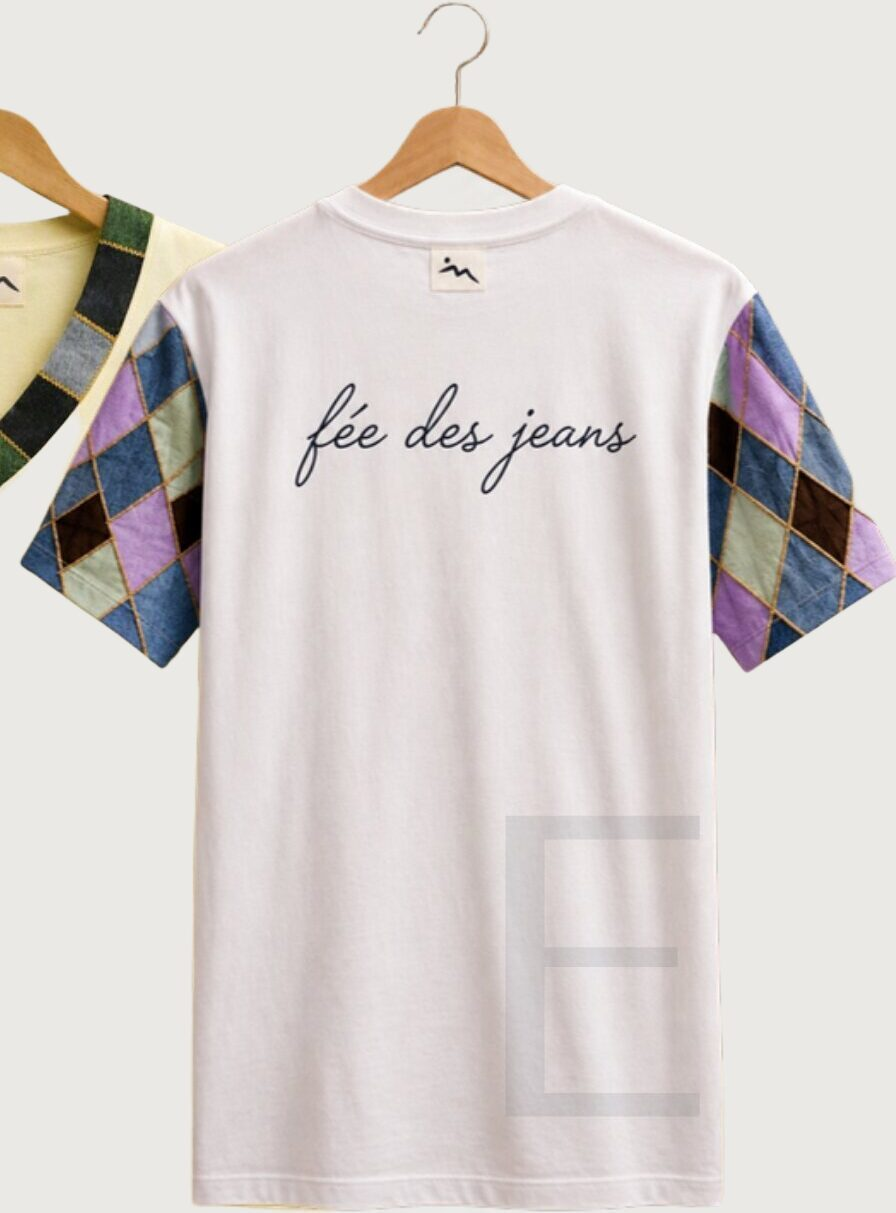
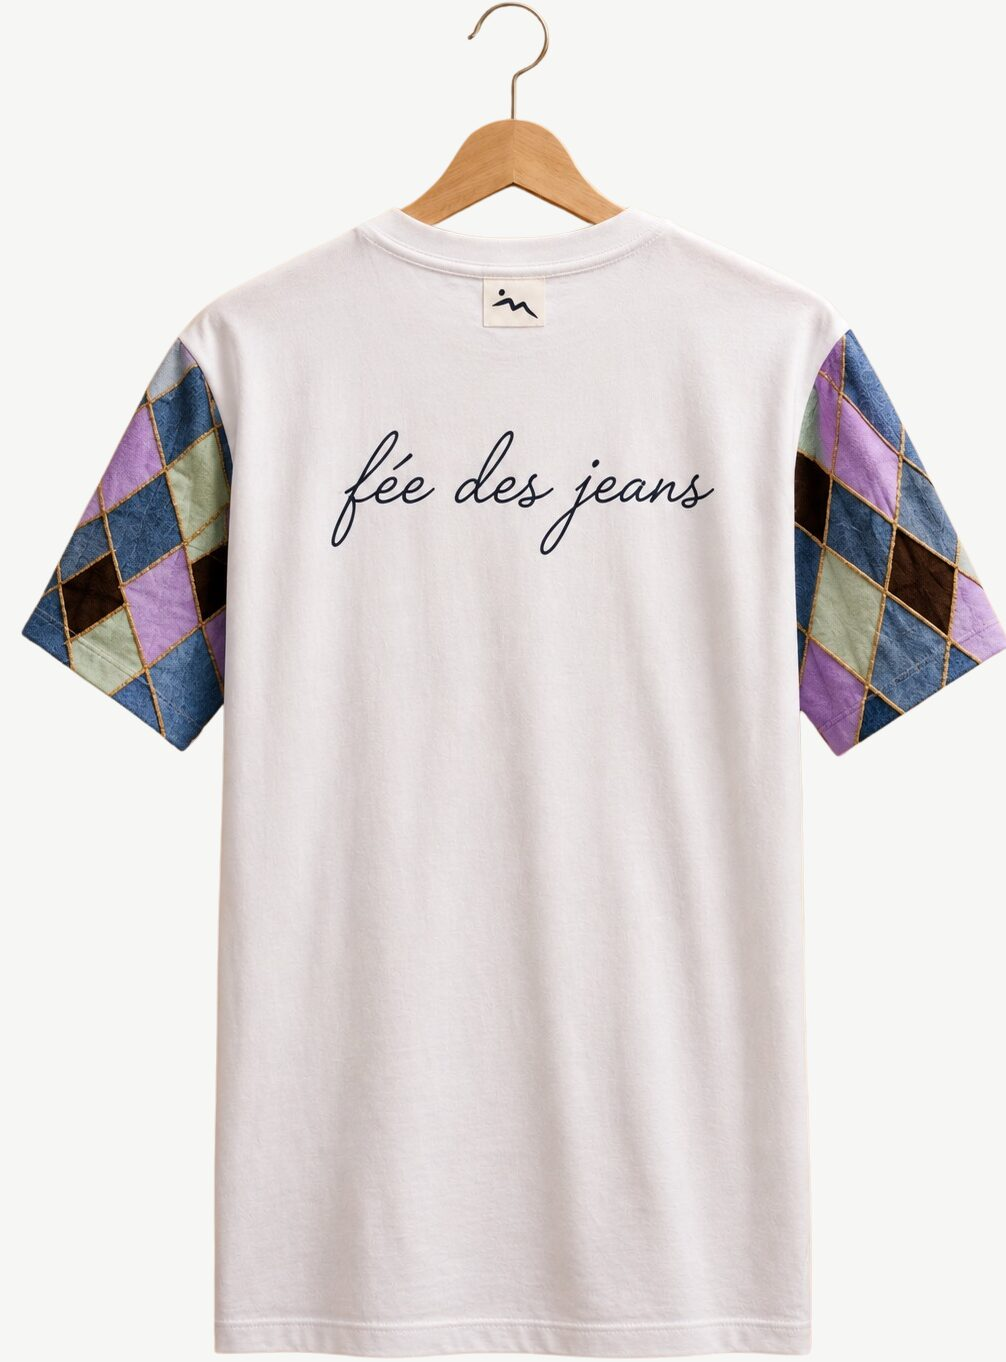
Re-cut the gallery from the studio's original photographs

diff --git a/index.html b/index.html
@@ -50,11 +50,11 @@
 <section class="works" id="works" aria-labelledby="style-ombres-chinoises-tapisseries">
   <h2 class="works__label" id="style-ombres-chinoises-tapisseries">Ombres chinoises &amp; tapisseries</h2>
   <div class="row">
-    <button class="w" style="--ar:0.709" type="button"
+    <button class="w" style="--ar:0.710" type="button"
             data-full="assets/img/oeuvres/ivresse-ecarlate.jpg"
             data-title="« Ivresse écarlate »"
             data-detail="Créton, popeline, tissu sky — 180 × 180 cm">
-      <img src="assets/img/oeuvres/ivresse-ecarlate.jpg" width="968" height="1365" fetchpriority="high" decoding="async"
+      <img src="assets/img/oeuvres/ivresse-ecarlate.jpg" width="851" height="1199" fetchpriority="high" decoding="async"
            alt="Intérieur tamisé baigné d'une lumière orange, sol en damier noir et or et palmier en ombre chinoise.">
       <span class="w__cap"><b>« Ivresse écarlate »</b><i>Créton, popeline, tissu sky — 180 × 180 cm</i></span>
     </button>
@@ -71,11 +71,11 @@
   </div>
 
   <div class="row">
-    <button class="w" style="--ar:0.616" type="button"
+    <button class="w" style="--ar:0.617" type="button"
             data-full="assets/img/oeuvres/ivresse-ecarlate-situ.jpg"
             data-title="« Ivresse écarlate »"
             data-detail="Ombres chinoises, en situation">
-      <img src="assets/img/oeuvres/ivresse-ecarlate-situ.jpg" width="763" height="1238" loading="lazy" decoding="async"
+      <img src="assets/img/oeuvres/ivresse-ecarlate-situ.jpg" width="832" height="1349" loading="lazy" decoding="async"
            alt="La tenture « Ivresse écarlate » installée dans une pièce, une personne assise devant.">
       <span class="w__cap"><b>« Ivresse écarlate »</b><i>Ombres chinoises, en situation</i></span>
     </button>
@@ -84,7 +84,7 @@
             data-full="assets/img/oeuvres/accords-vitamines.jpg"
             data-title="« Accords vitaminés »"
             data-detail="Popeline, tissu « sky », crétonne, perles — 105 × 65 cm">
-      <img src="assets/img/oeuvres/accords-vitamines.jpg" width="796" height="1335" loading="lazy" decoding="async"
+      <img src="assets/img/oeuvres/accords-vitamines.jpg" width="569" height="955" loading="lazy" decoding="async"
            alt="Tapisserie où une guitare devient un avocatier, sur un parterre de pétales pourpres.">
       <span class="w__cap"><b>« Accords vitaminés »</b><i>Popeline, tissu « sky », crétonne, perles — 105 × 65 cm</i></span>
     </button>
@@ -93,7 +93,7 @@
             data-full="assets/img/oeuvres/pieces-decoupees.jpg"
             data-title="Pièces découpées"
             data-detail="Trèfle, cœur et pique — la mécanique de guitare">
-      <img src="assets/img/oeuvres/pieces-decoupees.jpg" width="320" height="354" loading="lazy" decoding="async"
+      <img src="assets/img/oeuvres/pieces-decoupees.jpg" width="444" height="491" loading="lazy" decoding="async"
            alt="Pièces de feutrine découpées en forme de trèfle, de cœur et de pique sur un plan de travail.">
       <span class="w__cap"><b>Pièces découpées</b><i>Trèfle, cœur et pique — la mécanique de guitare</i></span>
     </button>
@@ -109,7 +109,7 @@
             data-full="assets/img/installations/hanoka-maria.jpg"
             data-title="HANOKA"
             data-detail="Installation textile murale inspirée du hanok — 200 × 96 cm">
-      <img src="assets/img/installations/hanoka-maria.jpg" width="1310" height="1333" loading="lazy" decoding="async"
+      <img src="assets/img/installations/hanoka-maria.jpg" width="1195" height="1216" loading="lazy" decoding="async"
            alt="Une enfant tient un éventail devant HANOKA, panneau textile mural aux briques roses et bleues.">
       <span class="w__cap"><b>HANOKA</b><i>Installation textile murale inspirée du hanok — 200 × 96 cm</i></span>
     </button>
@@ -118,7 +118,7 @@
             data-full="assets/img/installations/hanoka-mur.jpg"
             data-title="HANOKA"
             data-detail="En exposition à l'atelier">
-      <img src="assets/img/installations/hanoka-mur.jpg" width="935" height="1339" loading="lazy" decoding="async"
+      <img src="assets/img/installations/hanoka-mur.jpg" width="794" height="1137" loading="lazy" decoding="async"
            alt="HANOKA installé sur un mur de l'atelier, une silhouette passe devant.">
       <span class="w__cap"><b>HANOKA</b><i>En exposition à l'atelier</i></span>
     </button>
@@ -127,7 +127,7 @@
             data-full="assets/img/installations/hanoka-ombre.jpg"
             data-title="HANOKA"
             data-detail="Jeu d'ombre sur le mur">
-      <img src="assets/img/installations/hanoka-ombre.jpg" width="971" height="1331" loading="lazy" decoding="async"
+      <img src="assets/img/installations/hanoka-ombre.jpg" width="729" height="998" loading="lazy" decoding="async"
            alt="L'ombre d'une personne projetée sur le panneau textile HANOKA.">
       <span class="w__cap"><b>HANOKA</b><i>Jeu d'ombre sur le mur</i></span>
     </button>
@@ -136,7 +136,7 @@
             data-full="assets/img/installations/decors-architecture.jpg"
             data-title="Décors inspirés de l'architecture"
             data-detail="Pans de murs textiles">
-      <img src="assets/img/installations/decors-architecture.jpg" width="817" height="1238" loading="lazy" decoding="async"
+      <img src="assets/img/installations/decors-architecture.jpg" width="695" height="1053" loading="lazy" decoding="async"
            alt="Décor textile mural évoquant une façade à claustras, une personne assise devant.">
       <span class="w__cap"><b>Décors inspirés de l'architecture</b><i>Pans de murs textiles</i></span>
     </button>
@@ -148,11 +148,11 @@
 <section class="works" aria-labelledby="style-patchwork-mosaique-denim">
   <h2 class="works__label" id="style-patchwork-mosaique-denim">Patchwork &amp; mosaïque denim</h2>
   <div class="row">
-    <button class="w" style="--ar:0.752" type="button"
+    <button class="w" style="--ar:0.753" type="button"
             data-full="assets/img/oeuvres/architecture-eau.jpg"
             data-title="L'architecture de l'eau"
             data-detail="Mosaïque en jeans — recyclées, découpées, assemblées">
-      <img src="assets/img/oeuvres/architecture-eau.jpg" width="931" height="1238" loading="lazy" decoding="async"
+      <img src="assets/img/oeuvres/architecture-eau.jpg" width="399" height="530" loading="lazy" decoding="async"
            alt="Grande mosaïque murale composée de tessons de jean dans des bleus délavés.">
       <span class="w__cap"><b>L'architecture de l'eau</b><i>Mosaïque en jeans — recyclées, découpées, assemblées</i></span>
     </button>
@@ -161,7 +161,7 @@
             data-full="assets/img/oeuvres/mosaique-portee.jpg"
             data-title="L'architecture de l'eau"
             data-detail="L'envers de la tapisserie, chaque pièce numérotée et brodée à la main">
-      <img src="assets/img/oeuvres/mosaique-portee.jpg" width="733" height="1340" loading="lazy" decoding="async"
+      <img src="assets/img/oeuvres/mosaique-portee.jpg" width="475" height="868" loading="lazy" decoding="async"
            alt="Une artisane déploie la mosaïque en jeans pour en montrer l'envers.">
       <span class="w__cap"><b>L'architecture de l'eau</b><i>L'envers de la tapisserie, chaque pièce numérotée et brodée à la main</i></span>
     </button>
@@ -170,7 +170,7 @@
             data-full="assets/img/vetements/elephant-print.jpg"
             data-title="Le haut « Elephant print »"
             data-detail="Patchwork signature vêtement — 59 000 FCFA">
-      <img src="assets/img/vetements/elephant-print.jpg" width="695" height="581" loading="lazy" decoding="async"
+      <img src="assets/img/vetements/elephant-print.jpg" width="1188" height="993" loading="lazy" decoding="async"
            alt="Haut jaune safran à manches courtes, empiècements patchwork en denim aux épaules.">
       <span class="w__cap"><b>Le haut « Elephant print »</b><i>Patchwork signature vêtement — 59 000 FCFA</i></span>
     </button>
@@ -179,7 +179,7 @@
             data-full="assets/img/vetements/fee-des-jeans.jpg"
             data-title="« Fée des jeans »"
             data-detail="Patchwork signature vêtement">
-      <img src="assets/img/vetements/fee-des-jeans.jpg" width="931" height="1227" loading="lazy" decoding="async"
+      <img src="assets/img/vetements/fee-des-jeans.jpg" width="1018" height="1341" loading="lazy" decoding="async"
            alt="T-shirt blanc « fée des jeans » sur cintre, épaules en patchwork de denim.">
       <span class="w__cap"><b>« Fée des jeans »</b><i>Patchwork signature vêtement</i></span>
     </button>
@@ -191,25 +191,25 @@
             data-full="assets/img/vetements/fee-des-jeans-dos.jpg"
             data-title="« Fée des jeans »"
             data-detail="Dos, empiècement denim">
-      <img src="assets/img/vetements/fee-des-jeans-dos.jpg" width="896" height="1213" loading="lazy" decoding="async"
+      <img src="assets/img/vetements/fee-des-jeans-dos.jpg" width="1006" height="1362" loading="lazy" decoding="async"
            alt="Dos du t-shirt « fée des jeans », empiècement patchwork sur les manches.">
       <span class="w__cap"><b>« Fée des jeans »</b><i>Dos, empiècement denim</i></span>
     </button>
 
-    <button class="w" style="--ar:0.948" type="button"
+    <button class="w" style="--ar:0.949" type="button"
             data-full="assets/img/vetements/jupe-denim.jpg"
             data-title="Ensemble jupe denim"
             data-detail="Grain de beauté brodé">
-      <img src="assets/img/vetements/jupe-denim.jpg" width="1283" height="1353" loading="lazy" decoding="async"
+      <img src="assets/img/vetements/jupe-denim.jpg" width="979" height="1032" loading="lazy" decoding="async"
            alt="Haut jaune et jupe en denim noir portant le grain de beauté brodé.">
       <span class="w__cap"><b>Ensemble jupe denim</b><i>Grain de beauté brodé</i></span>
     </button>
 
-    <button class="w" style="--ar:1.201" type="button"
+    <button class="w" style="--ar:1.199" type="button"
             data-full="assets/img/vetements/haut-peche.jpg"
             data-title="Haut pêche"
             data-detail="Patchwork denim aux épaules">
-      <img src="assets/img/vetements/haut-peche.jpg" width="874" height="728" loading="lazy" decoding="async"
+      <img src="assets/img/vetements/haut-peche.jpg" width="953" height="795" loading="lazy" decoding="async"
            alt="Haut couleur pêche à manches patchwork en denim et popeline.">
       <span class="w__cap"><b>Haut pêche</b><i>Patchwork denim aux épaules</i></span>
     </button>
@@ -217,29 +217,29 @@
   </div>
 
   <div class="row">
-    <button class="w" style="--ar:1.000" type="button"
+    <button class="w" style="--ar:0.885" type="button"
             data-full="assets/img/vetements/haut-peche-poche.jpg"
             data-title="Haut pêche"
             data-detail="Poche et ceinture">
-      <img src="assets/img/vetements/haut-peche-poche.jpg" width="717" height="717" loading="lazy" decoding="async"
+      <img src="assets/img/vetements/haut-peche-poche.jpg" width="692" height="782" loading="lazy" decoding="async"
            alt="Haut pêche vu de face, poche plaquée et ceinture nouée.">
       <span class="w__cap"><b>Haut pêche</b><i>Poche et ceinture</i></span>
     </button>
 
-    <button class="w" style="--ar:0.867" type="button"
+    <button class="w" style="--ar:0.868" type="button"
             data-full="assets/img/vetements/ensemble-peche.jpg"
             data-title="Ensemble pêche"
             data-detail="Panneau patchwork denim">
-      <img src="assets/img/vetements/ensemble-peche.jpg" width="926" height="1068" loading="lazy" decoding="async"
+      <img src="assets/img/vetements/ensemble-peche.jpg" width="704" height="811" loading="lazy" decoding="async"
            alt="Ensemble pêche avec un large panneau de patchwork en denim.">
       <span class="w__cap"><b>Ensemble pêche</b><i>Panneau patchwork denim</i></span>
     </button>
 
-    <button class="w" style="--ar:1.212" type="button"
+    <button class="w" style="--ar:1.211" type="button"
             data-full="assets/img/vetements/pochette-ensemble.jpg"
             data-title="Pochette &amp; ensemble"
             data-detail="Créton jeans">
-      <img src="assets/img/vetements/pochette-ensemble.jpg" width="876" height="723" loading="lazy" decoding="async"
+      <img src="assets/img/vetements/pochette-ensemble.jpg" width="974" height="804" loading="lazy" decoding="async"
            alt="Pochette en denim à cordon, posée près d'un ensemble pêche à panneau patchwork.">
       <span class="w__cap"><b>Pochette &amp; ensemble</b><i>Créton jeans</i></span>
     </button>
@@ -251,25 +251,25 @@
             data-full="assets/img/vetements/detail-denim.jpg"
             data-title="Détail"
             data-detail="Assemblage denim et popeline">
-      <img src="assets/img/vetements/detail-denim.jpg" width="717" height="717" loading="lazy" decoding="async"
+      <img src="assets/img/vetements/detail-denim.jpg" width="545" height="545" loading="lazy" decoding="async"
            alt="Détail d'assemblage : pièces de denim et de popeline cousues bord à bord.">
       <span class="w__cap"><b>Détail</b><i>Assemblage denim et popeline</i></span>
     </button>
 
-    <button class="w" style="--ar:0.749" type="button"
+    <button class="w" style="--ar:0.750" type="button"
             data-full="assets/img/vetements/tablier-eventail.jpg"
             data-title="Le tablier de l'artisan"
             data-detail="Patchwork signature personnalisé">
-      <img src="assets/img/vetements/tablier-eventail.jpg" width="1048" height="1400" loading="lazy" decoding="async"
+      <img src="assets/img/vetements/tablier-eventail.jpg" width="810" height="1080" loading="lazy" decoding="async"
            alt="Tablier d'artisan en denim à patchwork rose et bordeaux, présenté avec un éventail.">
       <span class="w__cap"><b>Le tablier de l'artisan</b><i>Patchwork signature personnalisé</i></span>
     </button>
 
-    <button class="w" style="--ar:1.146" type="button"
+    <button class="w" style="--ar:1.147" type="button"
             data-full="assets/img/vetements/tablier.jpg"
             data-title="Le tablier de l'artisan"
             data-detail="Sur mesure — 175 000 FCFA">
-      <img src="assets/img/vetements/tablier.jpg" width="1238" height="1080" loading="lazy" decoding="async"
+      <img src="assets/img/vetements/tablier.jpg" width="889" height="775" loading="lazy" decoding="async"
            alt="Tablier d'artisan en polycoton bleu marine, orné d'un patchwork géométrique.">
       <span class="w__cap"><b>Le tablier de l'artisan</b><i>Sur mesure — 175 000 FCFA</i></span>
     </button>

diff --git a/atelier.html b/atelier.html
@@ -49,20 +49,20 @@
 <main>
 <section class="works" id="works" aria-label="Œuvres">
   <div class="row">
-    <button class="w" style="--ar:1.195" type="button"
+    <button class="w" style="--ar:1.194" type="button"
             data-full="assets/img/atelier/soeurs-re.jpg"
             data-title="Les sœurs Ré"
             data-detail="Omara Ré &amp; Inès Ré">
-      <img src="assets/img/atelier/soeurs-re.jpg" width="1191" height="997" fetchpriority="high" decoding="async"
+      <img src="assets/img/atelier/soeurs-re.jpg" width="836" height="700" fetchpriority="high" decoding="async"
            alt="Omara et Inès Ré face à face, en discussion autour d'un carnet et d'une tasse.">
       <span class="w__cap"><b>Les sœurs Ré</b><i>Omara Ré &amp; Inès Ré</i></span>
     </button>
 
-    <button class="w" style="--ar:1.036" type="button"
+    <button class="w" style="--ar:1.035" type="button"
             data-full="assets/img/atelier/ines-decoupe.jpg"
             data-title="Inès Ré"
             data-detail="La découpe, à contre-jour">
-      <img src="assets/img/atelier/ines-decoupe.jpg" width="1214" height="1172" fetchpriority="high" decoding="async"
+      <img src="assets/img/atelier/ines-decoupe.jpg" width="1148" height="1109" fetchpriority="high" decoding="async"
            alt="Inès Ré à l'atelier, penchée sur une découpe textile devant une fenêtre à contre-jour.">
       <span class="w__cap"><b>Inès Ré</b><i>La découpe, à contre-jour</i></span>
     </button>
@@ -71,7 +71,7 @@
             data-full="assets/img/atelier/couture.jpg"
             data-title="Quatre-mains"
             data-detail="Assemblage du patchwork">
-      <img src="assets/img/atelier/couture.jpg" width="766" height="1366" fetchpriority="high" decoding="async"
+      <img src="assets/img/atelier/couture.jpg" width="785" height="1400" fetchpriority="high" decoding="async"
            alt="Une artisane en haut rouge assemble à la main un patchwork géométrique.">
       <span class="w__cap"><b>Quatre-mains</b><i>Assemblage du patchwork</i></span>
     </button>
@@ -88,11 +88,11 @@
       <span class="w__cap"><b>Les outils</b><i>Ciseaux, aiguille, fils</i></span>
     </button>
 
-    <button class="w" style="--ar:1.710" type="button"
+    <button class="w" style="--ar:1.709" type="button"
             data-full="assets/img/atelier/eventail.jpg"
             data-title="L'éventail"
             data-detail="Accessoire scénographique">
-      <img src="assets/img/atelier/eventail.jpg" width="484" height="283" loading="lazy" decoding="async"
+      <img src="assets/img/atelier/eventail.jpg" width="1400" height="819" loading="lazy" decoding="async"
            alt="Éventail en papier plissé, ouvert.">
       <span class="w__cap"><b>L'éventail</b><i>Accessoire scénographique</i></span>
     </button>
@@ -100,20 +100,20 @@
   </div>
 
   <div class="row">
-    <button class="w" style="--ar:1.757" type="button"
+    <button class="w" style="--ar:1.758" type="button"
             data-full="assets/img/atelier/reference-ines.jpg"
             data-title="Créative Côte d'Ivoire"
             data-detail="Incubation 2026 — Ministère de la Culture">
-      <img src="assets/img/atelier/reference-ines.jpg" width="1400" height="797" loading="lazy" decoding="async"
+      <img src="assets/img/atelier/reference-ines.jpg" width="1276" height="726" loading="lazy" decoding="async"
            alt="Inès Ré présentant Résone sur scène lors du programme Créative Côte d'Ivoire.">
       <span class="w__cap"><b>Créative Côte d'Ivoire</b><i>Incubation 2026 — Ministère de la Culture</i></span>
     </button>
 
-    <button class="w" style="--ar:0.832" type="button"
+    <button class="w" style="--ar:1.005" type="button"
             data-full="assets/img/installations/exposition.jpg"
             data-title="Montage scénographique"
             data-detail="Éventail, dés, table ébène, tabouret en cuir et créton jeans">
-      <img src="assets/img/installations/exposition.jpg" width="1150" height="1383" loading="lazy" decoding="async"
+      <img src="assets/img/installations/exposition.jpg" width="960" height="955" loading="lazy" decoding="async"
            alt="Montage scénographique dans une pièce sombre : éventail, table en ébène et tabouret en cuir.">
       <span class="w__cap"><b>Montage scénographique</b><i>Éventail, dés, table ébène, tabouret en cuir et créton jeans</i></span>
     </button>

diff --git a/apropos.html b/apropos.html
@@ -49,11 +49,11 @@
 <main>
 <section class="works" id="works" aria-label="À propos">
   <div class="row">
-    <button class="w" style="--ar:1.757" type="button"
+    <button class="w" style="--ar:1.758" type="button"
             data-full="assets/img/atelier/reference-ines.jpg"
             data-title="Créative Côte d'Ivoire"
             data-detail="Incubation 2026 — Ministère de la Culture">
-      <img src="assets/img/atelier/reference-ines.jpg" width="1400" height="797" fetchpriority="high" decoding="async"
+      <img src="assets/img/atelier/reference-ines.jpg" width="1276" height="726" fetchpriority="high" decoding="async"
            alt="Inès Ré présentant Résone sur scène lors du programme Créative Côte d'Ivoire.">
       <span class="w__cap"><b>Créative Côte d'Ivoire</b><i>Incubation 2026 — Ministère de la Culture</i></span>
     </button>

diff --git a/contact.html b/contact.html
@@ -49,11 +49,11 @@
 <main>
 <section class="works" id="works" aria-label="Contact">
   <div class="row">
-    <button class="w" style="--ar:1.195" type="button"
+    <button class="w" style="--ar:1.194" type="button"
             data-full="assets/img/atelier/soeurs-re.jpg"
             data-title="Les sœurs Ré"
             data-detail="Omara Ré &amp; Inès Ré">
-      <img src="assets/img/atelier/soeurs-re.jpg" width="1191" height="997" fetchpriority="high" decoding="async"
+      <img src="assets/img/atelier/soeurs-re.jpg" width="836" height="700" fetchpriority="high" decoding="async"
            alt="Omara et Inès Ré face à face, en discussion autour d'un carnet et d'une tasse.">
       <span class="w__cap"><b>Les sœurs Ré</b><i>Omara Ré &amp; Inès Ré</i></span>
     </button>

diff --git a/target.md b/target.md
@@ -481,18 +481,18 @@ Run these before calling any visual change done. All currently pass:
 
 ## 9. Known gaps
 
-- **Imagery is second-generation, and some of it carries the deck's watermark.** Every
-  image is cut from a 4K render, not the studio's original files. The originals have now
-  been retrieved, unwatermarked, into `~/Documents/resone-originals/` (§1), but the gallery
-  has **not yet been re-cut from them**. Where a photograph was placed as a cut-out, the deck's
-  own `RÉSONE / _ L'ART DE FAIRE RÉSONNER` watermark sits *behind or over* it and is
-  baked into the render. Crops were chosen to minimise it, white card borders and
-  vertical "Crédit photo" strips were trimmed, and where the same garment appeared twice
-  the cleaner placement was used (the Elephant print top comes from p21, not p20, for
-  exactly this reason). It cannot be removed further without inpainting. **Ask the studio
-  for the source photographs** — the layout takes them as drop-in replacements, and
-  `build.py` re-reads every dimension from disk, so swapping a file and re-running is the
-  whole job.
+- **Imagery is first-generation, with two exceptions.** On 2026-09-29, 28 of the 30 images
+  were re-cut from the studio's original uploads (§1). Each crop was located inside its
+  original by SIFT feature matching against the previous deck crop, so the framing is
+  unchanged, but the deck watermark, the "Crédit photo" strips and the card borders are
+  gone. The garments that the deck showed as background-removed cut-outs (elephant print,
+  both *fée des jeans*, both tabliers, the fan) are the studio's own cut-outs flattened onto
+  `--paper`. Most originals are phone-resolution, so several files have fewer pixels than
+  the 4K-render crops they replace. Those pixels were upscaled, so no real detail is lost.
+  The two exceptions: `installations/bukchon` is an iStock reference photo whose "original"
+  carries the iStock credit, so it is still the deck crop, with a faint ghost wordmark.
+  `atelier/outils` is still the deck crop too, because the original is only 206 px wide
+  there; its dark top corners were inpainted out.
 - **Rights.** The photographs are credited "Crédit photo : Résone" in the deck. Confirm with
   the studio before publishing.
 - **The exact Canva font is unconfirmed** — see §3.1. Poppins is an optical match, not a

diff --git a/AGENTS.md b/AGENTS.md
@@ -193,9 +193,9 @@ so the palette and type can be re-verified offline.
   there is no parallel array in JS — do not reintroduce one.
 - Images: ≤1400px long edge, JPEG q82, `-strip`, progressive. 30 images, ~3.1 MB total,
   but each page loads only its own subset and everything below the first row is lazy.
-- The gallery images are **crops from a 4K deck export**, not the studio's original files.
-  A few still carry a faint ghost wordmark. Say so if you are asked whether the site is
-  ready to publish — see `target.md` §9.
+- The gallery images are **crops of the studio's original uploads**, except
+  `installations/bukchon` and `atelier/outils`, which are still 4K deck-export crops
+  (`target.md` §9). `bukchon` carries a faint ghost wordmark.
 - When re-cutting an image, render a grid-annotated proof first
   (`convert page.png -resize 800x450` plus 10% gridlines) and pick the crop off that.
   Guessing percentages and eyeballing the result wastes more passes than the proof costs.
